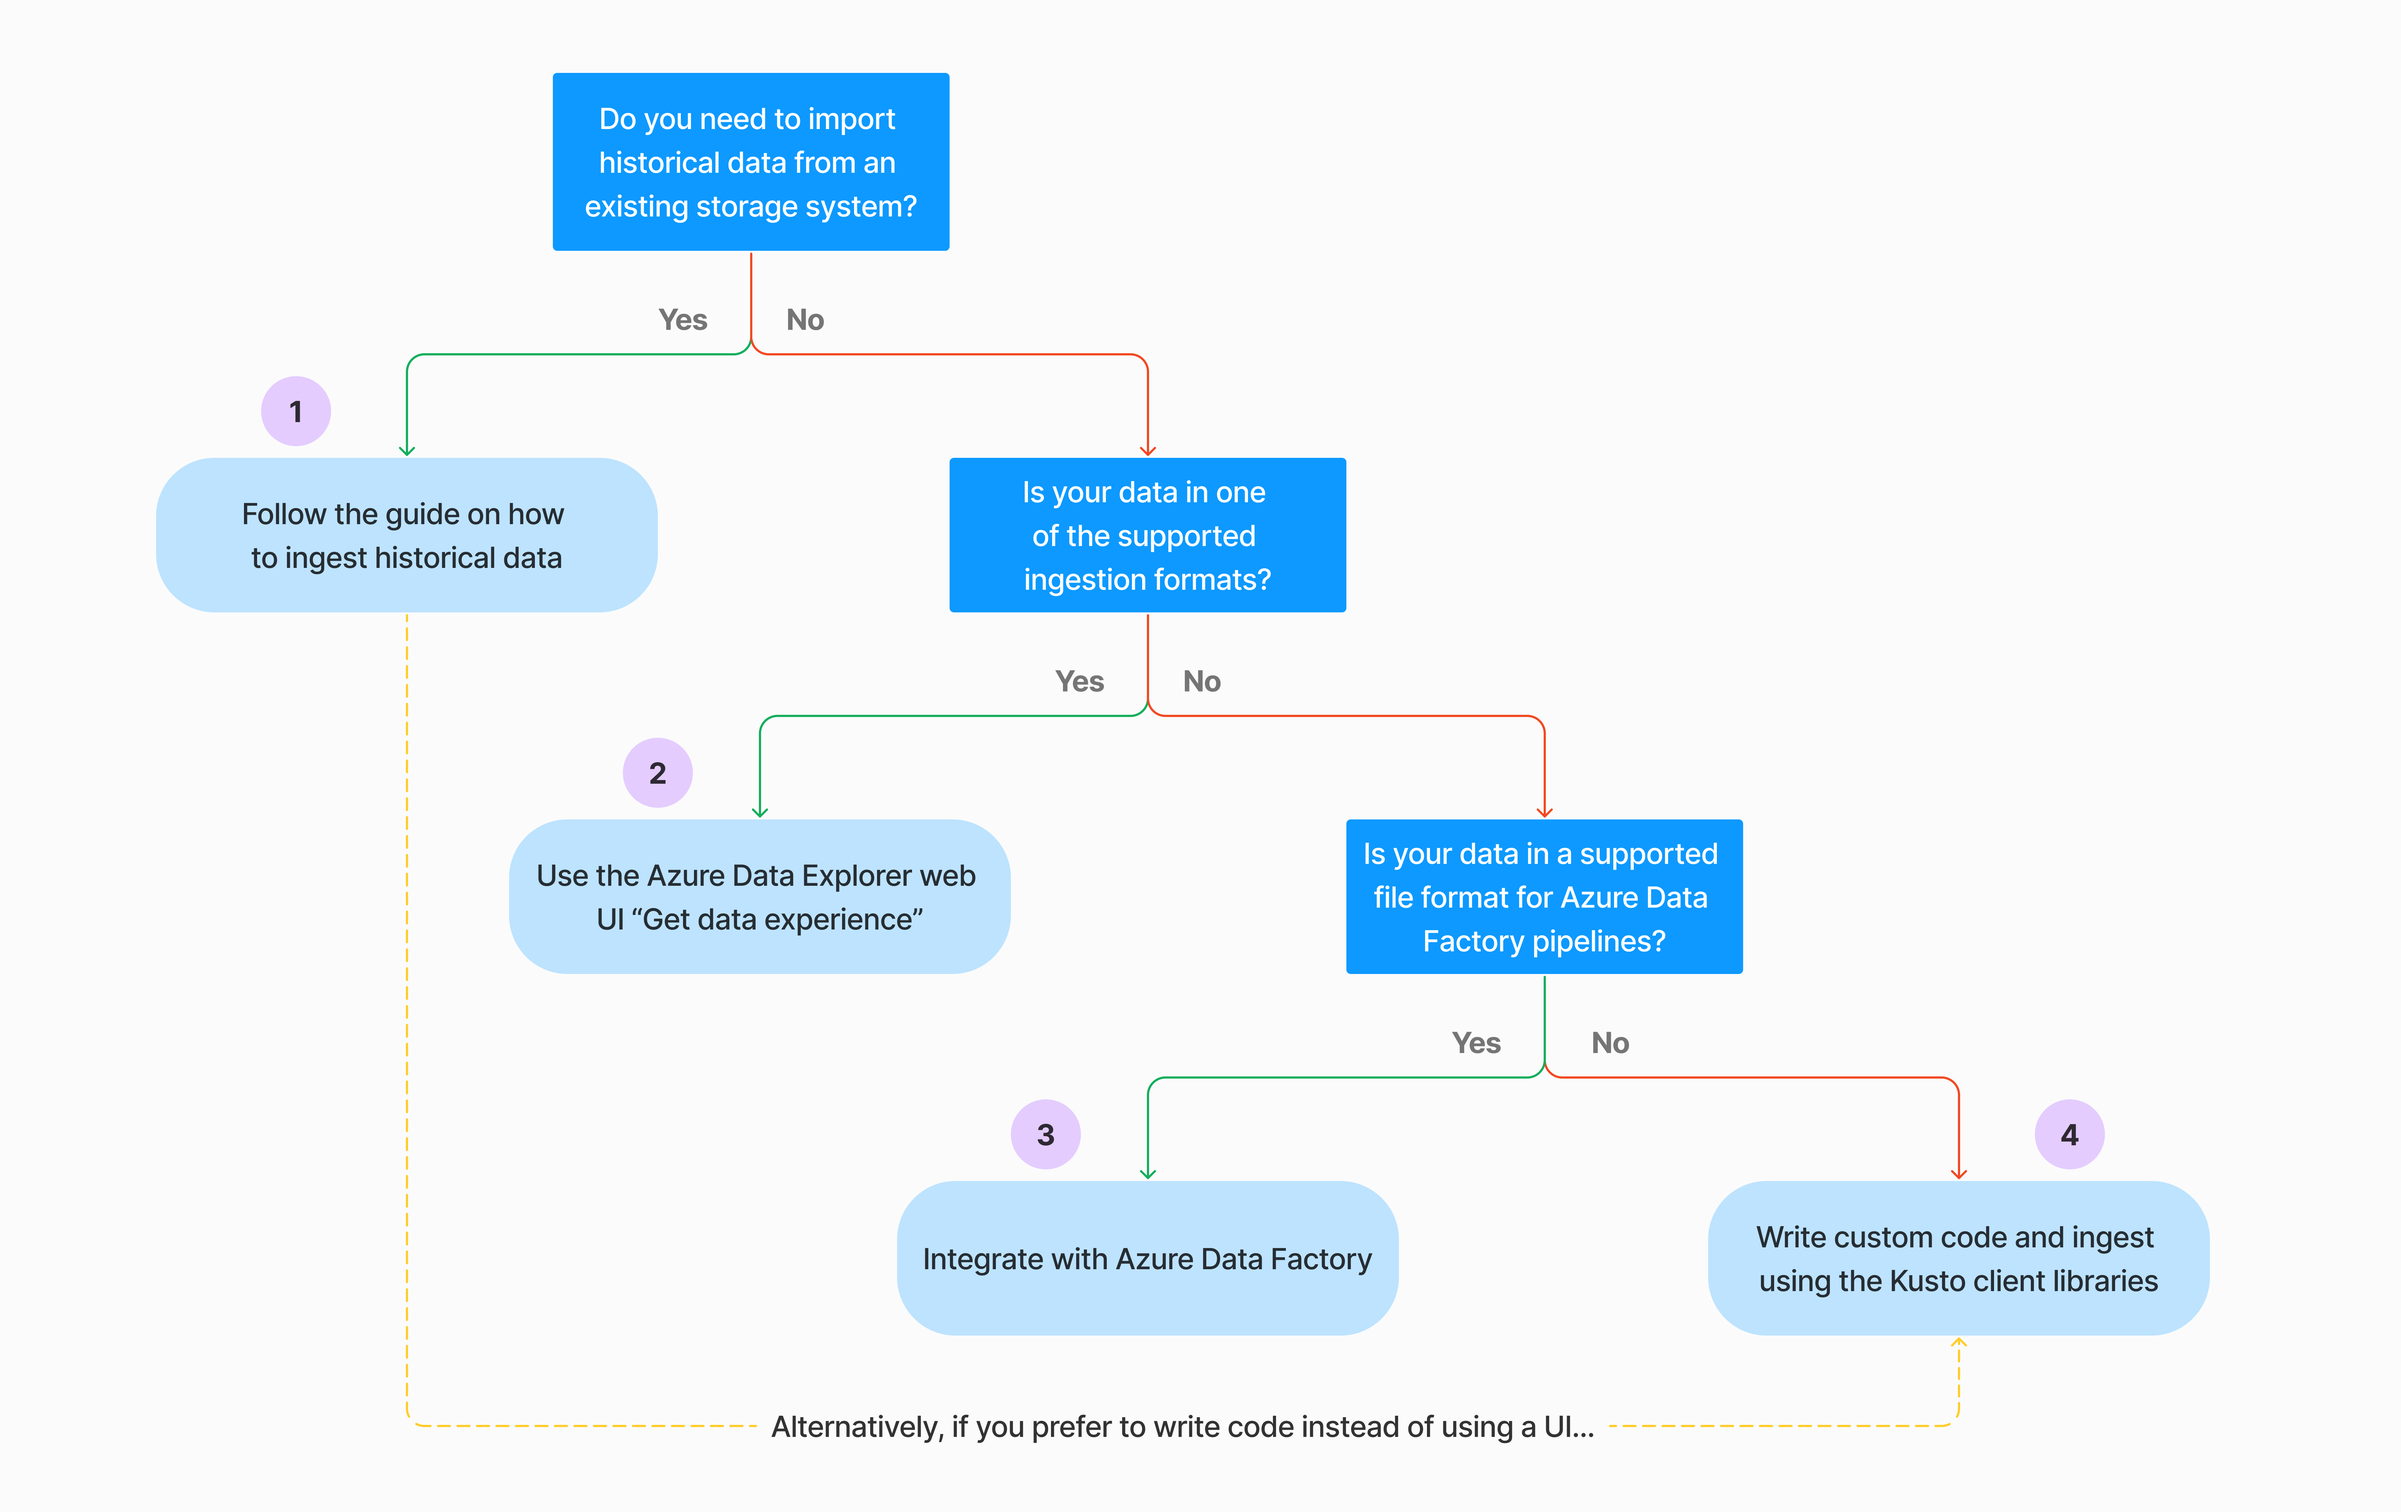
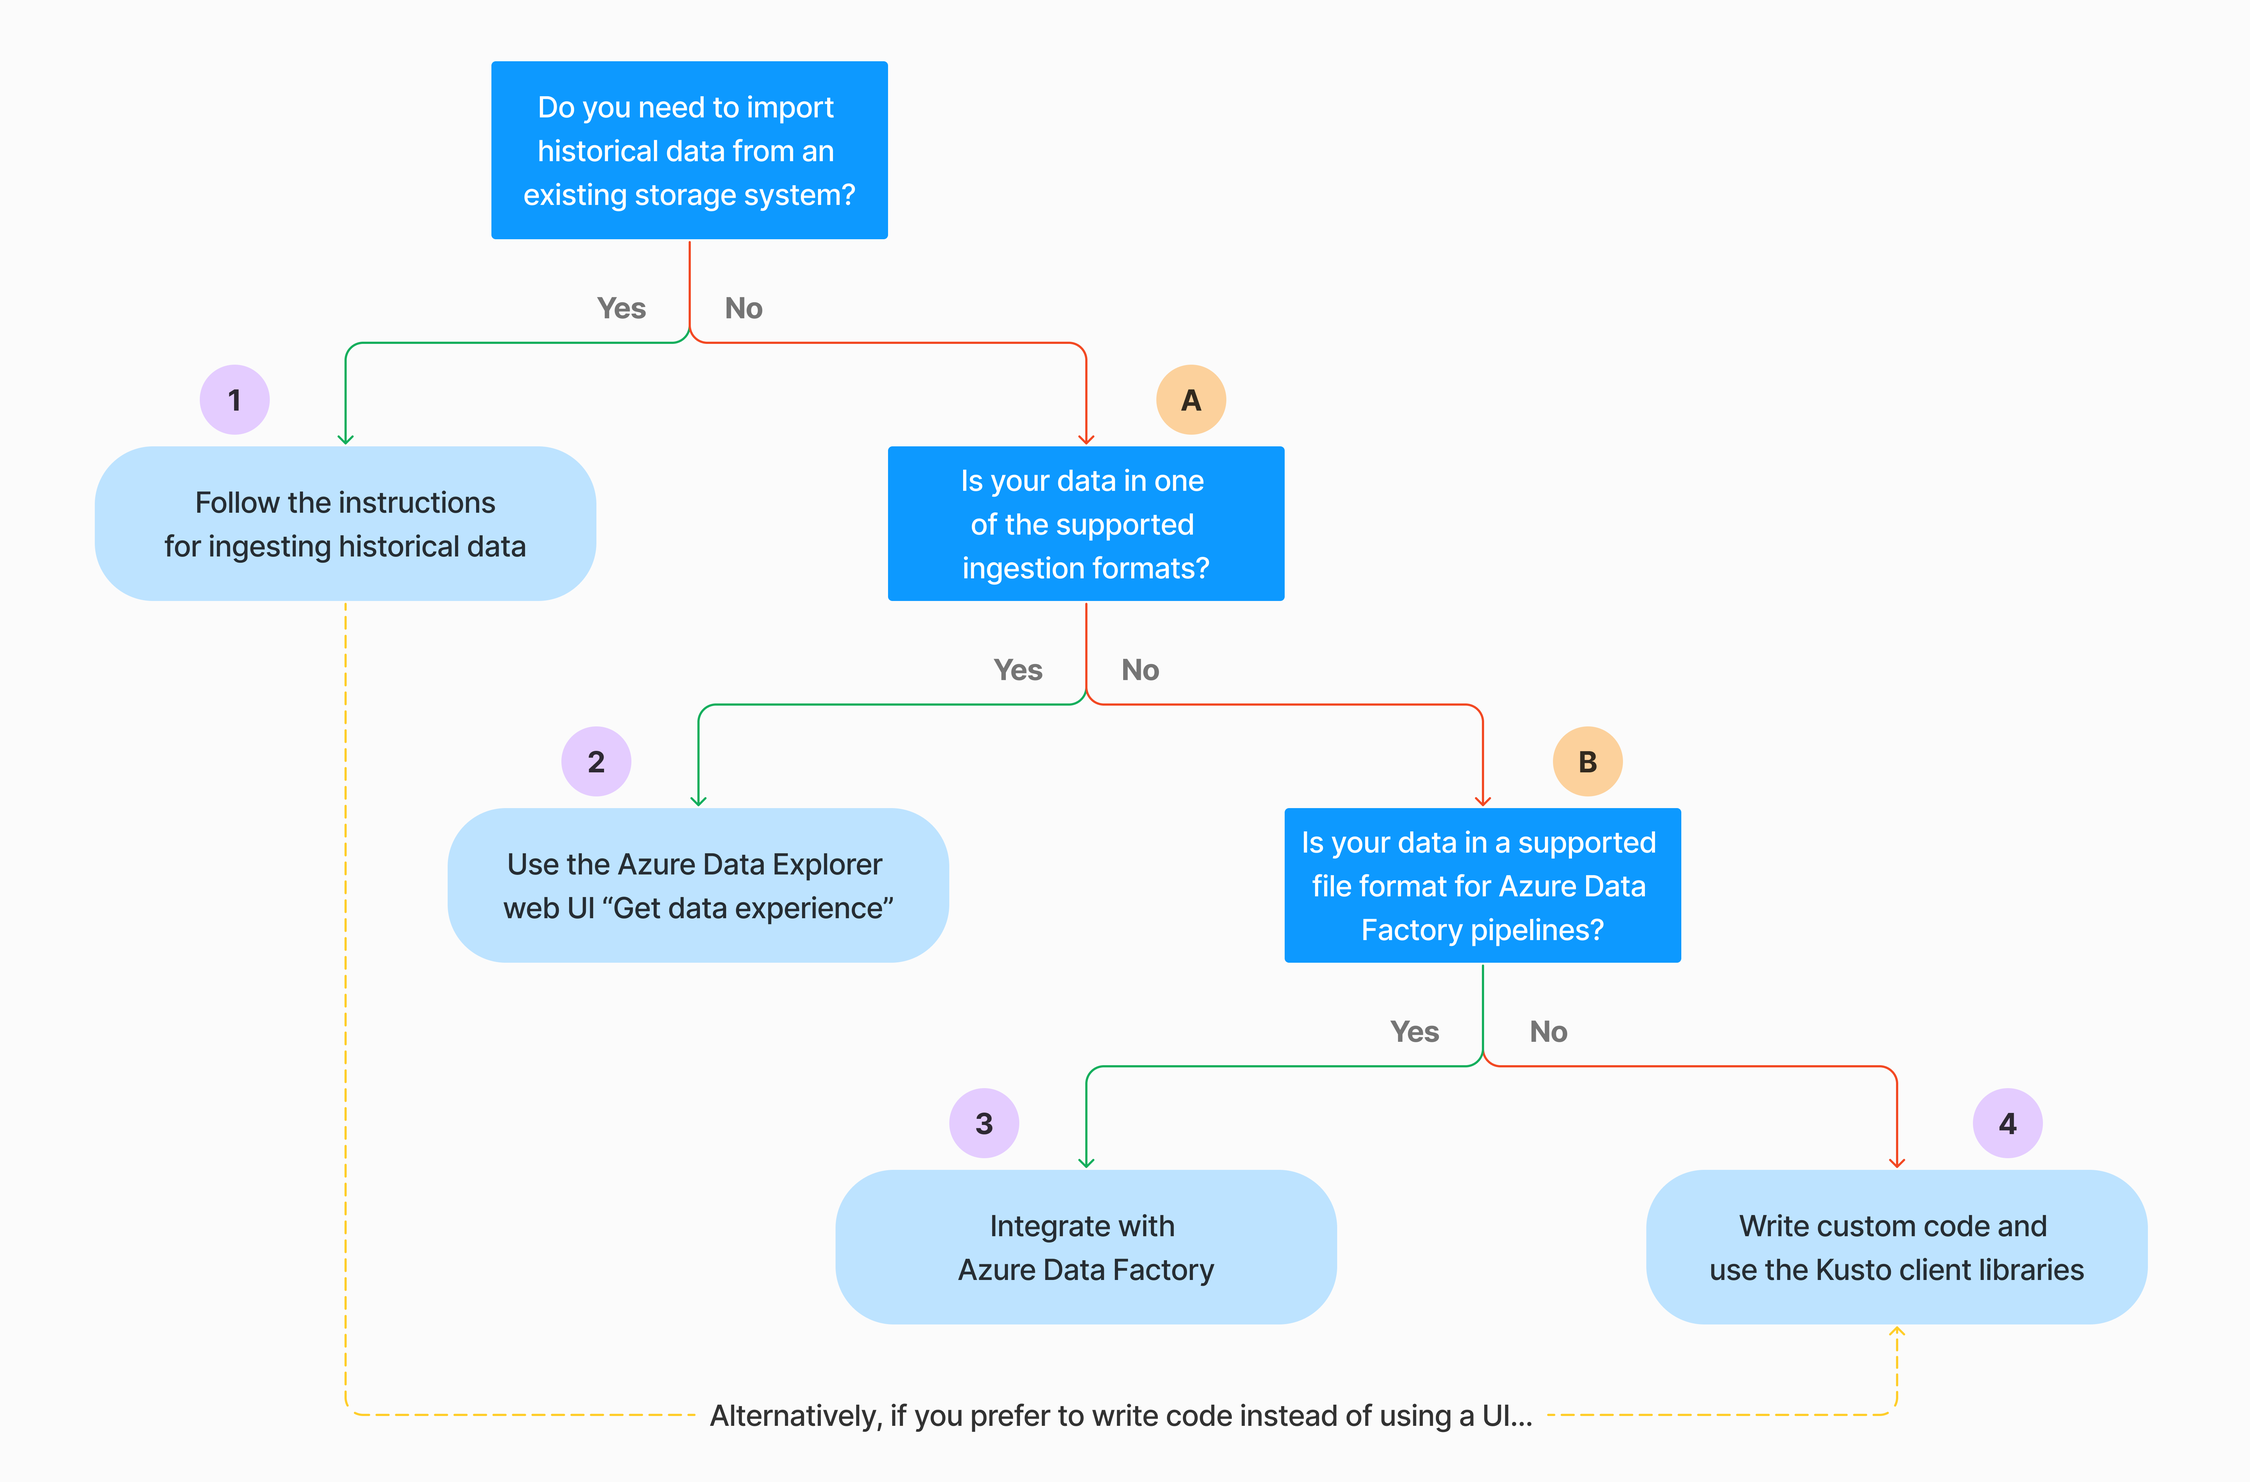
edits to diagram and linked descriptions

diff --git a/data-explorer/ingest-data-overview.md b/data-explorer/ingest-data-overview.md
@@ -40,7 +40,7 @@ For more information on the suggested ingestion method, see the relevant documen
     * [Get data from Azure Storage](get-data-storage.md)**: Get data from an Azure Data Lake Gen2 container, Azure Storage blob container, or individual blobs into either a new or existing table.
 
 3. **[Integrate with Azure Data Factory](data-factory-integration.md)**: Azure Data Factory (ADF) is a fully managed data integration service for analytic workloads. ADF can be used as a one-time solution, on a periodic timeline, or triggered by specific events.
-4. **[Write custom code with Kusto client libraries](kusto/api/client-libraries.md)**: Write code with C#, Python, Java, JavaScript, TypeScript, or Go to ingest data.
+4. **[Write custom code and use the Kusto client libraries](kusto/api/get-started/app-queued-ingestion.md)**: [Kusto client libraries](kusto/api/client-libraries.md) are available for C#, Python, Java, JavaScript, TypeScript, and Go. You can write code to manipulate your data as needed and then use the Kusto Ingest library to import the data into your Azure Data Explorer table. The data must be in one of the [supported formats](ingestion-supported-formats.md) prior to ingestion.
 
 ## Continuous data ingestion
 
